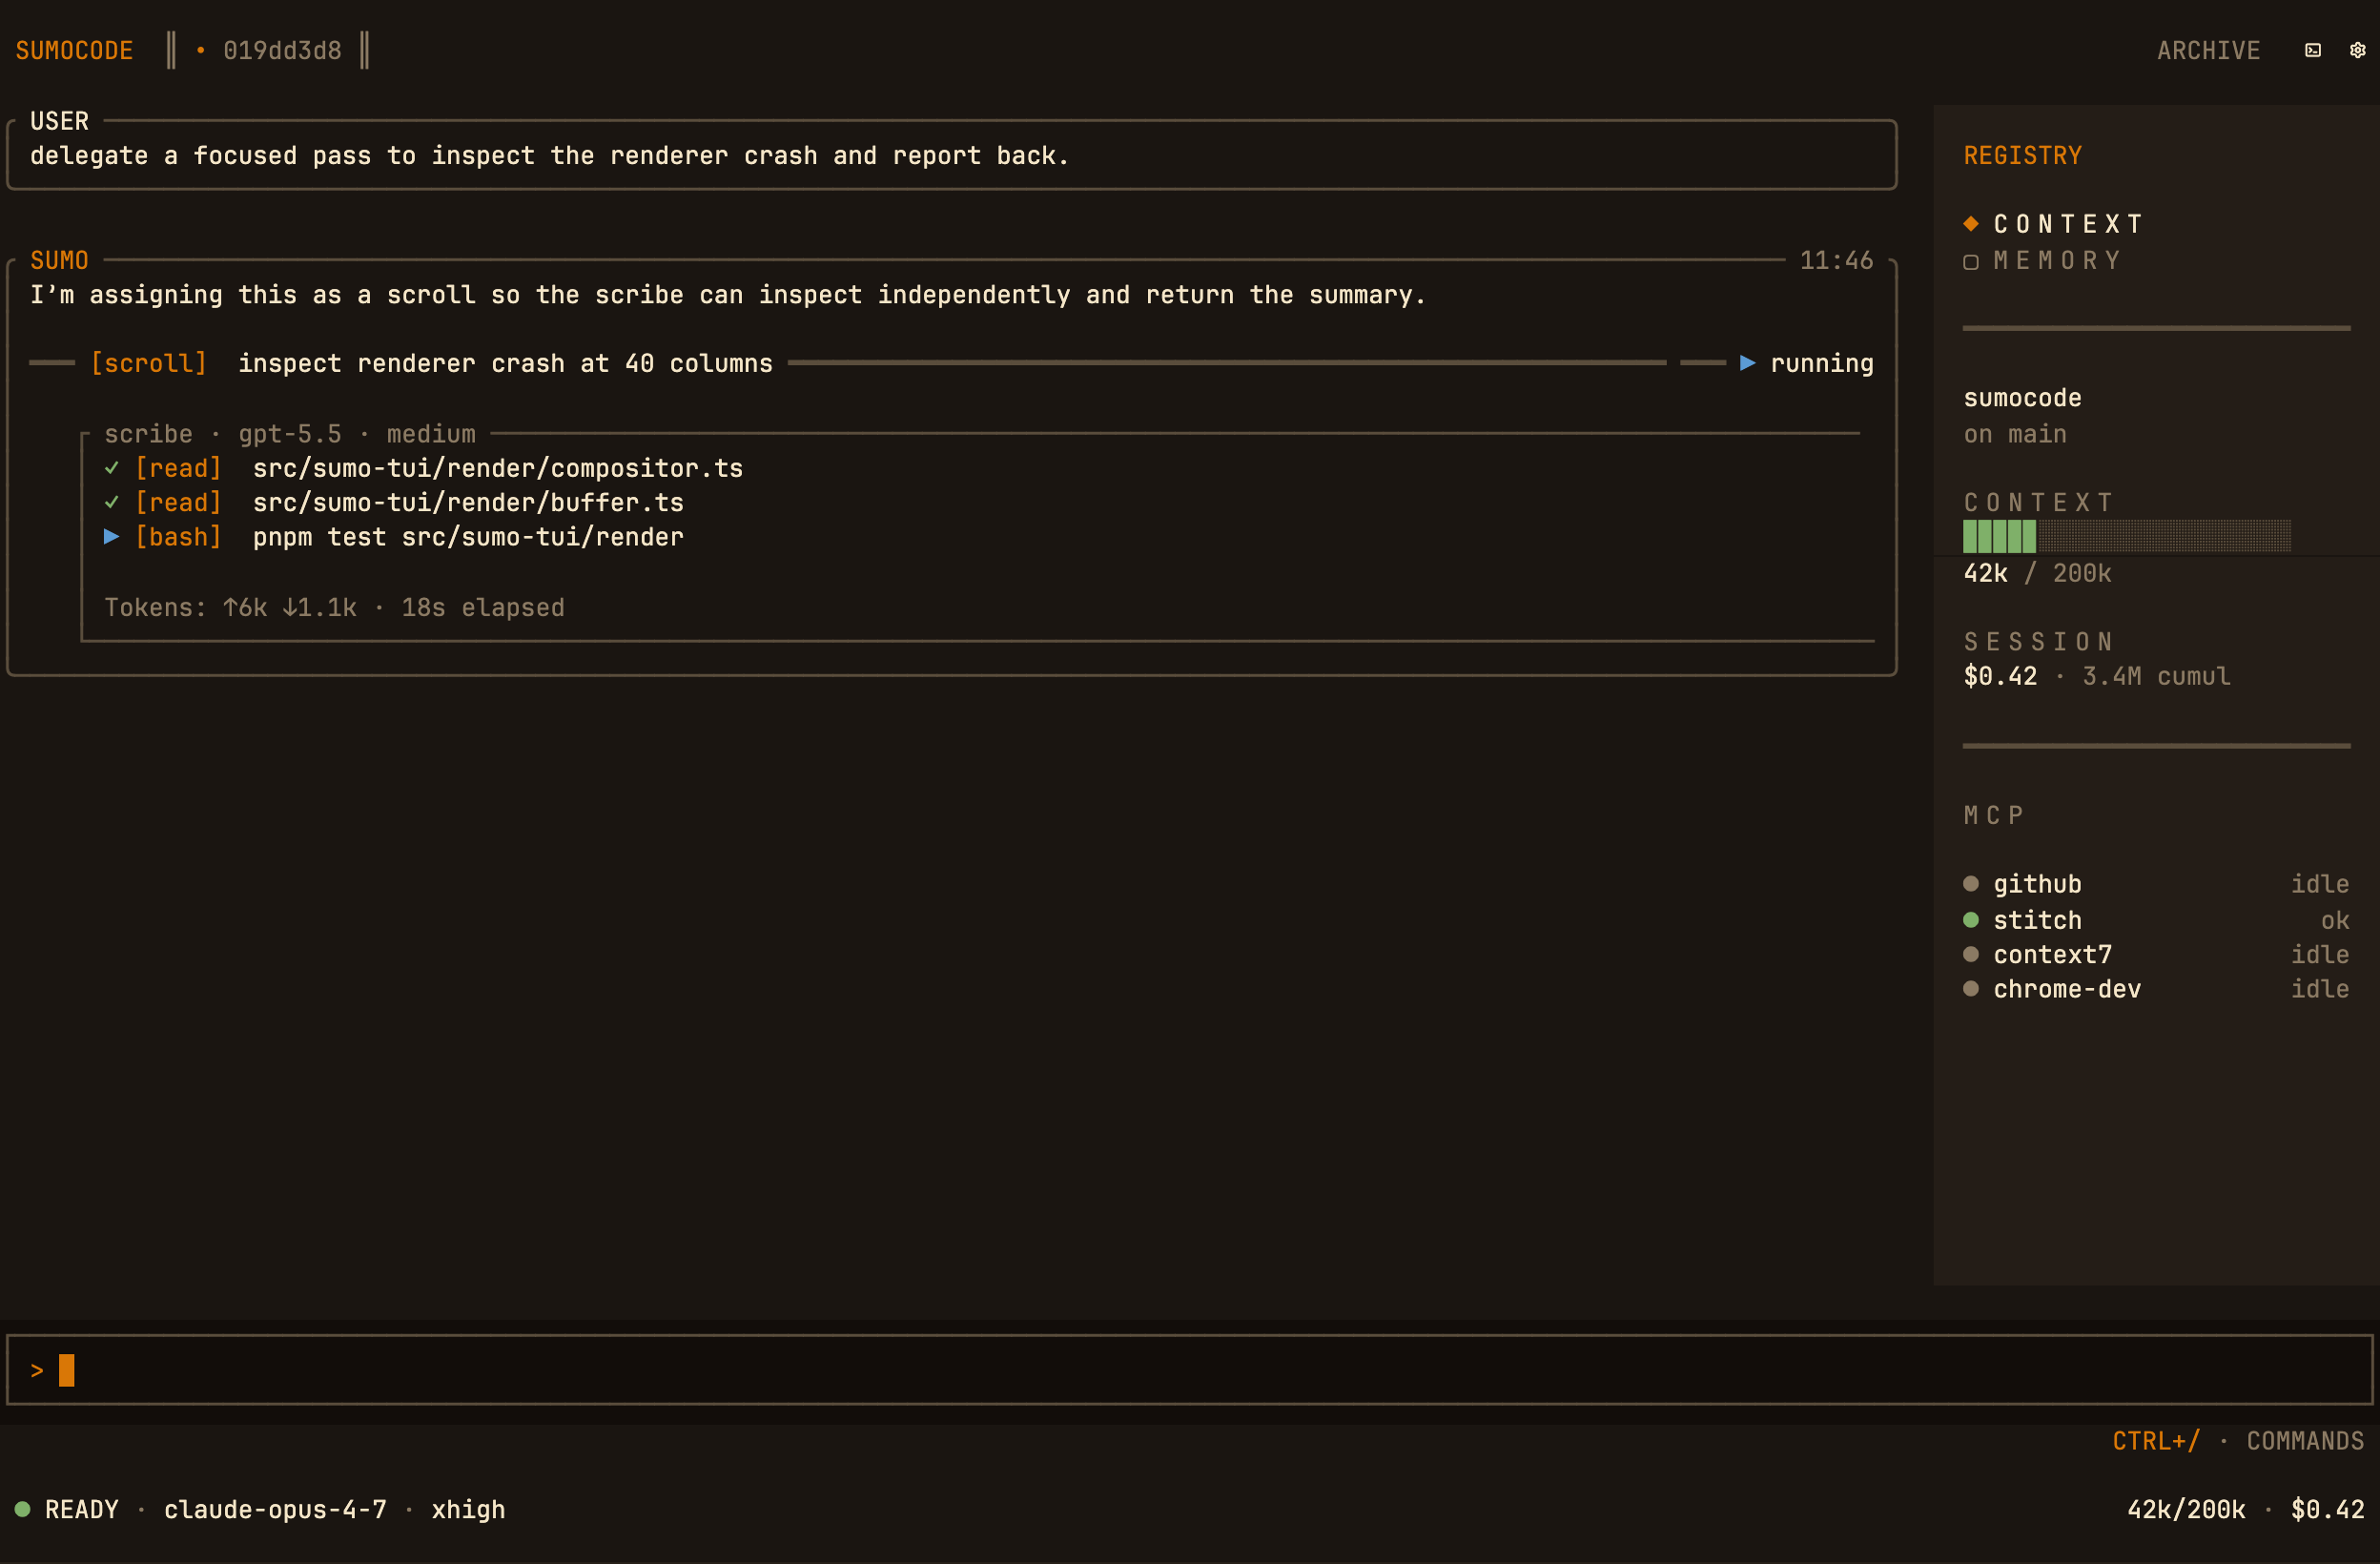
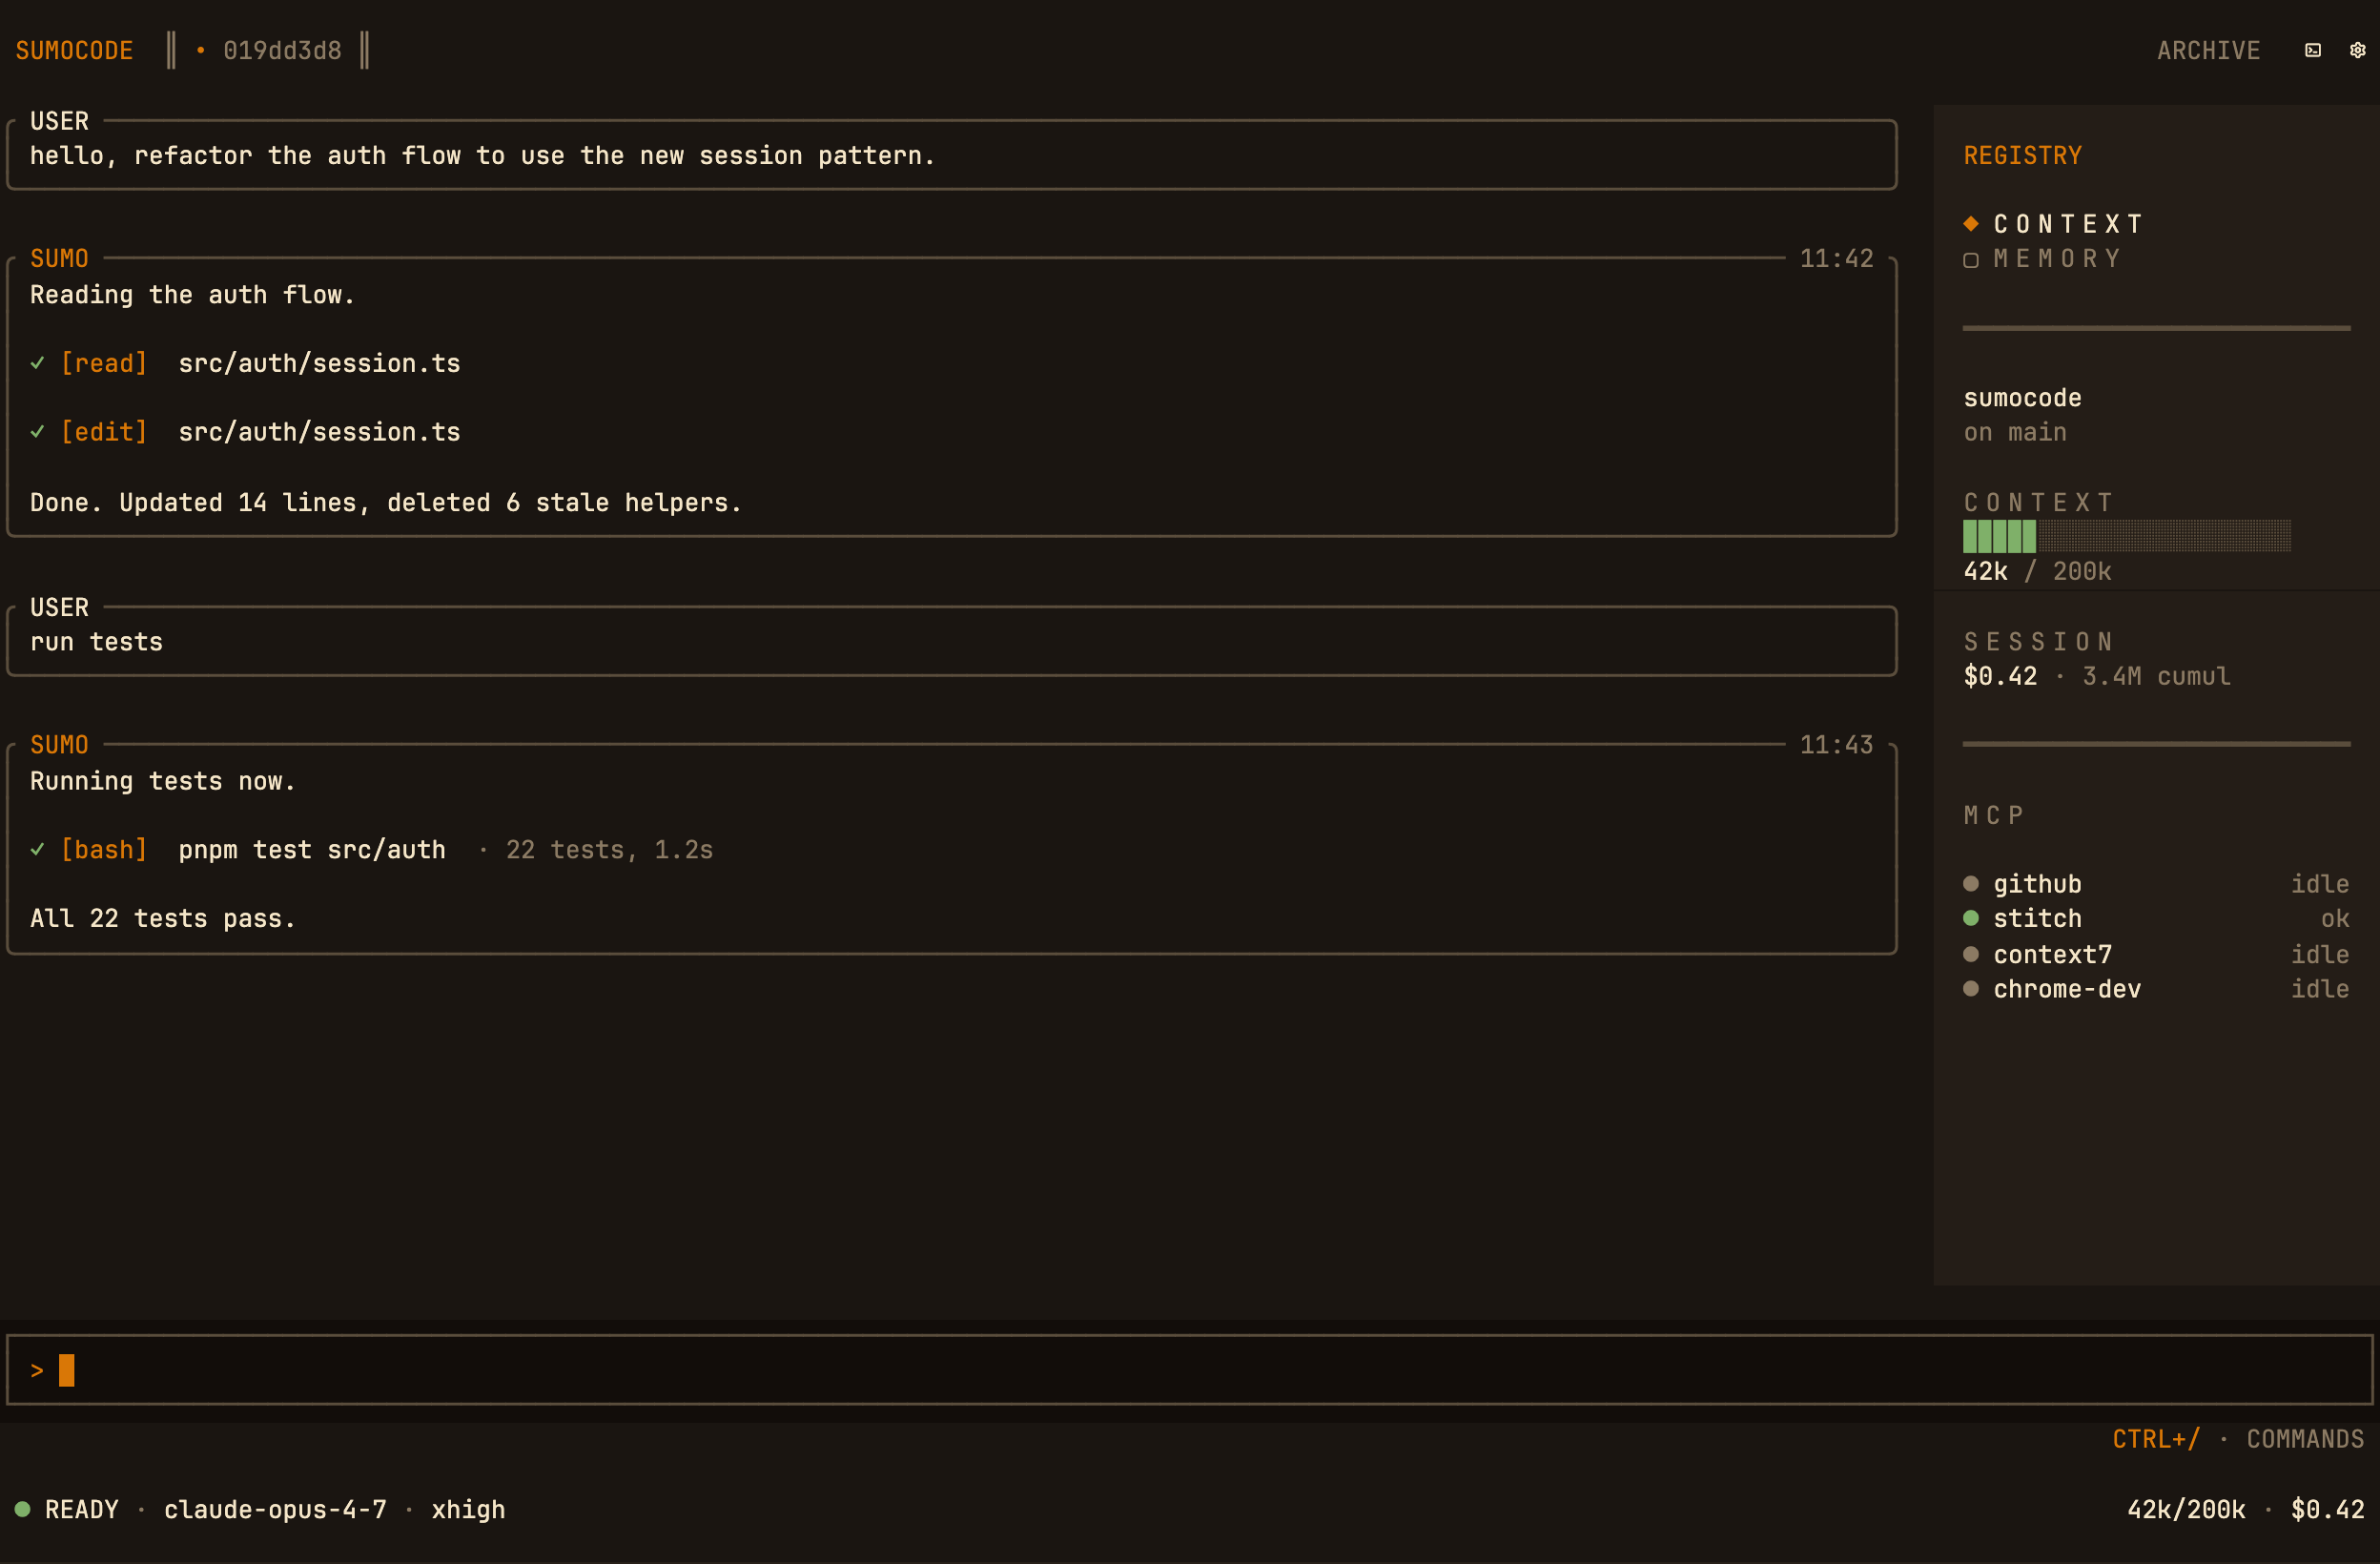
docs(readme): final variant B + splash hero + In action chat showcase (#248)
Per Dhruv's review: take Variant B (engineering-doc voice, sentence-case
headings, third-person, dense feature table) and tweak:

- Hero swapped from the Cathedral active scene to the splash
  (01-cathedral-splash.png) — the SUMO cat + wordmark frame is the
  stronger first-frame
- Theme tour stays at 3 themed active scenes — Cathedral now also shows
  the basic read/edit/bash flow (was scroll-scribe delegation), so all
  three theme-tour images are consistent execution screenshots
- New 'In action' section between Features and Architecture: full-width
  Cathedral active screenshot with a paragraph walking the reader
  through what they're seeing (user asks for a refactor; SUMO does
  [read], [edit], [bash] inline; sidebar tracks context window + cost +
  MCP roster; footer dot reads READY)
- Closes #245 + #247 review thread; supersedes the readme-preview-b
  variant

Marketing pack updated:
- docs/marketing/02-cathedral-active.png swapped to scene-active.png
  (basic read/edit/bash) instead of scene-active-scroll-scribe.png
  (delegation flow)
- docs/marketing/README.md updated to reflect the source mockup change

diff --git a/README.md b/README.md
@@ -2,125 +2,140 @@
 
 # SumoCode
 
-**a scriptorium for the terminal**
+A Pi extension that ships its own retained terminal renderer (SumoTUI), three theme bundles, and a persistent memory surface. Daily-driven by the maintainer for two months.
 
-a Pi extension i built so my terminal AI feels personal across machines.
-
-[![mit license](https://img.shields.io/badge/license-MIT-2D211A?style=flat-square)](./LICENSE)
-[![version](https://img.shields.io/badge/v0.3.0-B85A22?style=flat-square)](./CHANGELOG.md)
-[![pi 0.74](https://img.shields.io/badge/pi-0.74.0-4A6B3A?style=flat-square)](https://github.com/earendil-works/pi)
-[![tests](https://img.shields.io/badge/tests-821%20passing-4A6B3A?style=flat-square)](./test)
+[![MIT License](https://img.shields.io/badge/license-MIT-2D211A?style=flat-square)](./LICENSE)
+[![Version](https://img.shields.io/badge/v0.3.0-B85A22?style=flat-square)](./CHANGELOG.md)
+[![Pi 0.74](https://img.shields.io/badge/pi-0.74.0-4A6B3A?style=flat-square)](https://github.com/earendil-works/pi)
+[![Tests](https://img.shields.io/badge/tests-807%20passing-4A6B3A?style=flat-square)](./test)
 
 <br>
 
-<img src="./docs/marketing/02-cathedral-active.png" alt="SumoCode running in Cathedral theme — active scroll/scribe delegation with sidebar visible" width="900">
+<img src="./docs/marketing/01-cathedral-splash.png" alt="SumoCode splash — pixel-art SUMO cat, wordmark, and Divine Invocation input frame on the Cathedral palette" width="900">
 
 </div>
 
 ---
 
-## what you're looking at
+## Overview
 
-SumoCode is a Pi extension. it owns the experience layer — splash, top chrome, footer, sidebar, modals, themes, persistent memory across sessions. [Pi](https://github.com/earendil-works/pi) keeps the agent loop, the LLM, sessions, MCP, skills.
+SumoCode is a [Pi](https://github.com/earendil-works/pi) extension. Pi provides the agent loop, LLM abstraction, sessions, MCP, and skills. SumoCode owns the experience layer: splash, top chrome, footer, sidebar, modals, themes, in-app scrollback, and mouse routing.
 
-three themes ship. cathedral by default. amber CRT when i miss DOS. obsidian temple at night. cycle with `Ctrl+Shift+T`. choice persists across machines.
+The renderer is **SumoTUI** — a Node-native retained renderer in [`src/sumo-tui/`](./src/sumo-tui/) — built around a Yoga flex layout tree, a cell compositor with frame diff, a modal layer, and a headless test backend. SumoTUI replaces Pi's line-concatenation `Container` for surfaces that require flex layout, in-app scroll, modal overlays, mouse routing, and signal-clean cleanup.
 
-it's been my daily-drive shell for the last two months.
+Three themes ship: Cathedral (default), Amber CRT, and Obsidian Temple. Cycle with `Ctrl+Shift+T`; choice persists across machines.
 
-## theme tour
+## Theme tour
 
 <table>
 <tr>
 <td align="center" width="33%">
 <img src="./docs/marketing/02-cathedral-active.png" alt="Cathedral theme">
-<br><strong>cathedral</strong>
-<br><sub>warm walnut chassis, burnt-orange accent, fleur-de-lis bullets, rounded chrome. default.</sub>
+<br><strong>Cathedral</strong>
+<br><sub>Warm walnut chassis, burnt-orange accent, fleur-de-lis bullets, rounded chrome.</sub>
 </td>
 <td align="center" width="33%">
 <img src="./docs/marketing/04-amber-crt.png" alt="Amber CRT theme">
-<br><strong>amber CRT</strong>
-<br><sub>warm dark brown chassis, P3 amber phosphor, double-line ASCII chrome, P1 green / cyan / red phosphor states.</sub>
+<br><strong>Amber CRT</strong>
+<br><sub>Warm dark brown chassis, P3 amber phosphor, double-line ASCII chrome, P1 phosphor states.</sub>
 </td>
 <td align="center" width="33%">
 <img src="./docs/marketing/05-obsidian-temple.png" alt="Obsidian Temple theme">
-<br><strong>obsidian temple</strong>
-<br><sub>deep obsidian background, electrum gold + neon cyan + magenta, Egyptian section glyphs.</sub>
+<br><strong>Obsidian Temple</strong>
+<br><sub>Deep obsidian background, electrum gold accent, neon cyan and magenta, Egyptian section glyphs.</sub>
 </td>
 </tr>
 </table>
 
-## what makes it personal
+## Features
 
-<table>
-<tr>
-<td width="50%" valign="top">
+| Feature | Description |
+|---|---|
+| **Memory Scriptorium** | Persistent agent memory across six panels (identity, preferences, workflow, projects, system, general). Inline forget (`d`), search (`/`), retreat (`⎋`). Read-back on every new session. Open with `/sumo:memory`. |
+| **Five preattentive states** | `idle`, `thinking`, `tool`, `approval`, `learning`. Each maps to a distinct theme-defined colour, surfaced in the footer dot and working indicator. |
+| **Owned-shell mode** | Full altscreen ownership: retained renderer, in-app scroll, modal layer, mouse routing, OSC 52 cell-precise selection. Pi reduced to LLM, tools, sessions through adapters in [`src/sumo-tui/pi-compat/`](./src/sumo-tui/pi-compat/). |
+| **`/sumo:reload`** | Hot-reload via launcher loop and exit code 100. Strips `--resume`, replaces with `--continue`. Resumes the in-flight session. |
+| **Cathedral approval modal** | Pattern-gated approval for dangerous bash commands. Default patterns cover `rm -rf`, `sudo`, `git push --force`, mutating `gh` calls. Configurable via `ApprovalGateConfig`. Modal height capped at 12 visible command rows. |
+| **Sidebar** | Three sections at width ≥ 120: context (token meter, session cost), MCP (server roster), memory (persisted bullets). Hidden in portrait orientation per [`SUMO_TUI_PORTRAIT_SIDEBAR_POLICY.md`](./docs/SUMO_TUI_PORTRAIT_SIDEBAR_POLICY.md). |
+| **Theme system** | Three first-party themes plus a chrome contract: each theme defines its own glyph set (`frame`, `sectionGlyphs`, `bullet`, `ruleChar`, `tabActive` / `tabInactive`) and an 8-frame working indicator. |
+| **Diagnostics flight recorder** | `SUMO_TUI_DIAG_FILE=/path/file.jsonl` enables a 19-event-type structured trace covering runtime lifecycle, terminal state, upstream Pi events, owned-shell transitions, and module-load provenance. |
 
-### ❈  memory scriptorium
+## In action
 
-facts the agent learned about you, organised like a manuscript. six panels (identity, preferences, workflow, projects, system, general). `d` to forget a line, `/` to search, `⎋` to retreat. inline revise is a planned addition; for now use `/sumo:memory forget <id>` + `/sumo:memory add <text>`. the agent reads from the manuscript on every new session.
+<div align="center">
 
-<sub>open with `/sumo:memory`</sub>
+<img src="./docs/marketing/02-cathedral-active.png" alt="SumoCode mid-session — user asks SUMO to refactor an auth flow; SUMO reads, edits, then runs the test suite directly via [read], [edit], [bash] tool calls" width="900">
 
-</td>
-<td width="50%" valign="top">
+</div>
 
-### ●  five preattentive states
+A real working session, mid-flow. The user asks SUMO to refactor `src/auth/session.ts`. SUMO executes a `[read]` to understand the current pattern, an `[edit]` to apply the change, and a `[bash]` invocation to run the test suite — each tool call inline, framed in its parent SUMO message. The sidebar tracks the live context window (`42k / 200k`), session cost (`$0.42 · 3.4M cumul`), and MCP server roster on the right. Footer state dot reads `READY` (idle) on the active theme's idle phosphor. The same cell layout, glyph chrome, and state colours adapt to the active theme.
 
-idle / thinking / tool / approval / learning. each gets a distinct colour drawn from the active theme. you can read the state out of the corner of your eye while your hands are typing.
+## Architecture
 
-<sub>set in `src/themes/*.ts`, surfaced in the footer dot + working indicator</sub>
+### SumoTUI
 
-</td>
-</tr>
-<tr>
-<td width="50%" valign="top">
+Pi's built-in TUI is a vertical line-concatenation `Container`. It does not provide flex layout, in-app scroll, mouse routing, or modal overlays. Workarounds — manual padding math for splash centering, footers floating wherever the linear renderer left them, mouse-wheel translating to arrow keys, kitty keyboard escapes leaking on signal exit — accumulated until they stopped scaling.
 
-### ▣  owned-shell mode
+[**SumoTUI**](./src/sumo-tui/) replaces that path with a Node-native retained renderer that:
 
-every cell that paints is mine. retained renderer, in-app scroll, modal layer, mouse routing, OSC 52 selection. Pi is reduced to LLM/tools/sessions through clean adapters; the seam lives in one directory (`src/sumo-tui/pi-compat/`).
+- Owns the altscreen lifecycle, mouse SGR routing, cursor state, and signal cleanup.
+- Runs a Yoga flex layout tree (top chrome, chat row with sidebar, blank, input frame, hint, footer, bottom safe row).
+- Composites cells through a frame diff that only repaints changed regions.
+- Provides a modal layer that composites over the chat without losing focus.
+- Wraps Pi's `CustomEditor` as a `PiEditorLeaf` so autocomplete, IME, kill-ring, undo-stack, and history continue to work.
 
-<sub>see [`docs/SUMO_TUI_PI_PATCH_STRATEGY.md`](./docs/SUMO_TUI_PI_PATCH_STRATEGY.md)</sub>
+Reasoning is documented in [ADR 0001](./docs/adr/0001-sumo-tui-framework.md).
 
-</td>
-<td width="50%" valign="top">
+### The seam
 
-### ↻  /sumo:reload
+SumoTUI must initialise before Pi's `InteractiveMode` is constructed. Pi's public extension API does not expose that hook — it composes on top of the existing TUI rather than replacing it. SumoCode therefore carries a 36-line pnpm patch against `@earendil-works/pi-coding-agent`'s `dist/main.js` ([`patches/@[email redacted]`](./patches/)):
 
-hard-reload the shell while keeping your terminal context. exits with code 100, the launcher loop respawns with `--continue`. iterating on the renderer no longer means losing the session.
+```js
+const useSumoTui = isTruthyEnvFlag(process.env.SUMO_TUI) || parsed.unknownFlags.has("sumo-tui");
+const interactiveMode = useSumoTui
+  ? await loadSumoInteractiveMode(runtime, interactiveOptions)
+  : new InteractiveMode(runtime, interactiveOptions);
+```
 
-<sub>also strips `--resume` and replaces with `--continue`</sub>
+`loadSumoInteractiveMode` dynamically imports `@dhruvkelawala/sumocode/sumo-interactive-mode` (or `$SUMO_TUI_MODULE` in dev). Without `SUMO_TUI=1` the patch is a no-op; plain Pi loads. Maintenance contract: [`docs/SUMO_TUI_PI_PATCH_STRATEGY.md`](./docs/SUMO_TUI_PI_PATCH_STRATEGY.md). The patch is removed when Pi exposes a public `interactiveMode` injection API.
 
-</td>
-</tr>
-<tr>
-<td width="50%" valign="top">
+### Kernel contracts
 
-### ✾  cathedral approval modal
+Six contracts came out of the SumoTUI consolidation epic. Each is small, owns one responsibility, and is enforced by tests.
 
-cathedral-styled gate for dangerous bash commands. patterns are configurable per session — `rm -rf`, `sudo`, `git push --force`, mutating gh CLI calls, plus your own. long commands get capped at 12 visible rows so the modal never overflows the terminal.
+| Contract | Responsibility | Code | Doc |
+|---|---|---|---|
+| **TerminalSessionOwner** | Altscreen lifecycle, mouse and cursor reporting, signal cleanup, stdin and raw-mode handling. Split: terminal output ownership in `terminal-controller.ts`; stdin and raw-mode in `lifecycle.ts`. | [`src/sumo-tui/runtime/terminal-controller.ts`](./src/sumo-tui/runtime/terminal-controller.ts) + [`lifecycle.ts`](./src/sumo-tui/runtime/lifecycle.ts) | (in ADR + audit) |
+| **InteractionRegistry** | Single registration point for keybindings, shortcuts, slash commands, with collision detection. Paired with a focus-aware key router. | [`src/interaction-registry.ts`](./src/interaction-registry.ts) + [`src/sumo-tui/input/key-router.ts`](./src/sumo-tui/input/key-router.ts) | (in ADR) |
+| **Cancellable WorkerRuntime** | Background jobs that respect `Ctrl+C` and do not leak across session switches. | [`src/sumo-tui/runtime/worker-runtime.ts`](./src/sumo-tui/runtime/worker-runtime.ts) | (in ADR) |
+| **Typed render primitives** | `Style`, `Span`, `Line` types for cell-correct rendering. Eliminates stale-style and cell-width bugs. | [`src/sumo-tui/render/primitives.ts`](./src/sumo-tui/render/primitives.ts) | [`SUMO_TUI_RENDER_PRIMITIVES.md`](./docs/SUMO_TUI_RENDER_PRIMITIVES.md) |
+| **Headless TestBackend** | Test harness for retained-renderer behaviour without parsing real PTY bytes. | [`src/sumo-tui/testing/test-backend.ts`](./src/sumo-tui/testing/test-backend.ts) | [`SUMO_TUI_TEST_BACKEND.md`](./docs/SUMO_TUI_TEST_BACKEND.md) |
+| **Structured TranscriptViewModel** | Typed `ChatBlock` taxonomy (markdown, code, tool, skill, question, delegation) replacing flattened message strings. | [`src/sumo-tui/transcript/view-model.ts`](./src/sumo-tui/transcript/view-model.ts) | [`SUMO_TUI_TRANSCRIPT_MODEL.md`](./docs/SUMO_TUI_TRANSCRIPT_MODEL.md) |
 
-<sub>configurable via `ApprovalGateConfig`</sub>
+The **scriptorium modal chrome** ([`docs/cathedral/SCRIPTORIUM_CHROME.md`](./docs/cathedral/SCRIPTORIUM_CHROME.md)) is the shared lifted-bg overlay used by Divine Query, Approval, and Memory Scriptorium. It is the reason the three modals look like the same thing.
 
-</td>
-<td width="50%" valign="top">
+### Visual parity contract
 
-### ▦  sidebar with intent
+Three rendering paths agree, cell for cell, against the same Bible mockups. [`docs/visual/parity/CONTRACT.md`](./docs/visual/parity/CONTRACT.md) defines the three lanes:
 
-three sections: context (token meter, session cost), MCP (server roster and current state), memory (persisted bullets the agent keeps). 30 columns wide; appears at terminal width 120+. portrait policy hides it deliberately. live MCP health surfacing is on the roadmap once Pi exposes it; today the section reflects the configured server list.
+| Lane | Input | Purpose |
+|---|---|---|
+| `component` | Deterministic fixture → ANSI | Isolated TUI component captures. |
+| `fixture` | `TranscriptViewModel` fixture → full-scene ANSI | Deterministic completed / tool / overlay states without live Pi. |
+| `runtime` | `bin/sumocode.sh` via `node-pty` | Real end-to-end runtime captures. |
 
-<sub>appears automatically at 120+ columns</sub>
+All three converge through `@xterm/headless` into a per-cell `{ char, fg, bg, bold, dim }` grid. Verification is **styled-cell diff** (text-level, deterministic) plus a **geometry audit** that classifies each row and bounds it against the spec. PNG diffs exist for human review packs but they are not the gate.
 
-</td>
-</tr>
-</table>
+```bash
+pnpm visual:ci
+cat docs/visual/out/parity/<scenario>/raw/styled-cell-diff.txt
+```
 
-## reading the source
+### Layout policy
 
-this is a personal Pi extension. it runs in my fork of Pi with a small private patch (`patches/@[email redacted]`, 36 lines) that lets SumoCode own the root TUI. the package isn't designed to drop into your machine clean — but the source is yours to read, fork, and lift from. the patch is small and well-documented.
+Sidebar docks at terminal width ≥ 120. Below 120, the sidebar disappears and project / branch context moves into the hint row. Portrait — the canonical 60 × 100 viewport — has its own policy: no sidebar regardless of width. See [`SUMO_TUI_PORTRAIT_SIDEBAR_POLICY.md`](./docs/SUMO_TUI_PORTRAIT_SIDEBAR_POLICY.md).
 
-if you want to actually run it, [`DEV_LOOP.md`](./DEV_LOOP.md) walks the dev loop and [`SETUP.md`](./SETUP.md) is what i run on a new machine. you'll need the public companion config too: [`dhruvkelawala/sumocode-config`](https://github.com/dhruvkelawala/sumocode-config) is private and personal, so you'd be writing your own.
-
-## how it's built
+### The bigger picture
 
 ```
 ┌──────────────────────────────────────────────────────────┐
@@ -135,12 +150,16 @@ if you want to actually run it, [`DEV_LOOP.md`](./DEV_LOOP.md) walks the dev loo
                           ▼
 ┌──────────────────────────────────────────────────────────┐
 │  SumoCode  ·  this repo                                  │
-│   · retained terminal renderer (yoga flex layout)        │
-│   · cathedral / amber CRT / obsidian themes              │
-│   · memory scriptorium                                   │
-│   · approval modal · divine query · skill pills          │
-│   · cell-precise selection + OSC 52 auto-copy            │
-│   · 5 preattentive status states + working indicator     │
+│   ┌─ src/sumo-tui/  retained renderer kernel ─────────┐  │
+│   │  yoga flex layout · cell compositor · frame diff │  │
+│   │  modal layer · mouse routing · OSC 52 selection   │  │
+│   └─ headless TestBackend · typed render primitives ──┘  │
+│   ┌─ src/themes/    Cathedral / Amber CRT / Obsidian ─┐  │
+│   │  palette + chrome glyphs + working indicator      │  │
+│   └─ Ctrl+Shift+T to cycle, persisted via Pi ─────────┘  │
+│   ┌─ src/cathedral/, src/memory-editor.ts, etc. ──────┐  │
+│   │  Cathedral surfaces · Memory Scriptorium ·        │  │
+│   └─ approval modal · Divine Query · skill pills ─────┘  │
 └──────────────────────────────────────────────────────────┘
                           ▲
                           │ symlink into ~/.pi/agent/
@@ -151,21 +170,41 @@ if you want to actually run it, [`DEV_LOOP.md`](./DEV_LOOP.md) walks the dev loo
 └──────────────────────────────────────────────────────────┘
 ```
 
-the design history lives in [`docs/prd.md`](./docs/prd.md) (PRD), [`docs/adr/0001-sumo-tui-framework.md`](./docs/adr/0001-sumo-tui-framework.md) (the retained-renderer ADR), and [`docs/ui/CATHEDRAL_UX_SPEC_V2.md`](./docs/ui/CATHEDRAL_UX_SPEC_V2.md) (the visual canon).
+Design trail: [PRD](./docs/prd.md) · [ADR 0001](./docs/adr/0001-sumo-tui-framework.md) · [Pi patch strategy](./docs/SUMO_TUI_PI_PATCH_STRATEGY.md) · [render primitives contract](./docs/SUMO_TUI_RENDER_PRIMITIVES.md) · [transcript view-model](./docs/SUMO_TUI_TRANSCRIPT_MODEL.md) · [test backend](./docs/SUMO_TUI_TEST_BACKEND.md) · [scriptorium chrome](./docs/cathedral/SCRIPTORIUM_CHROME.md) · [visual parity contract](./docs/visual/parity/CONTRACT.md) · [V2 UX spec](./docs/ui/CATHEDRAL_UX_SPEC_V2.md) · [Pi tool architecture](./docs/PI_TOOL_ARCHITECTURE.md) · [portrait sidebar policy](./docs/SUMO_TUI_PORTRAIT_SIDEBAR_POLICY.md).
 
-## credits
+## Development
 
-* [Mario Zechner](https://github.com/badlogicgames) and the [@earendil-works](https://github.com/earendil-works) team for [Pi](https://github.com/earendil-works/pi). every cell SumoCode paints sits on top of Pi's agent loop, model registry, and extension API. the patch is 36 lines because Pi was already designed to be extended.
-* [OpenCode](https://opencode.ai/) for the visual language i love and openly mirror.
-* the AI agents that helped me write this — anthropic claude opus, openai codex, deepseek v4, kimi. several thousand commits' worth of pair programming.
-* built in london, on a mac mini in portrait orientation, in cmux.
+This is a personal Pi extension, not a clean drop-in. The patch is small and well-documented; the renderer is open for reading, forking, and lifting.
 
-## license
+| Document | Purpose |
+|---|---|
+| [`DEV_LOOP.md`](./DEV_LOOP.md) | Edit / test / release workflow. |
+| [`SETUP.md`](./SETUP.md) | What the maintainer runs on a new machine. |
+| [`CHANGELOG.md`](./CHANGELOG.md) | Keep-a-Changelog format, retroactive for v0.1.0 → v0.2.0 → v0.3.0. |
+| [`AGENTS.md`](./AGENTS.md) | Engineering conventions and AI-agent contract for this repo. |
+
+The companion config lives at [`dhruvkelawala/sumocode-config`](https://github.com/dhruvkelawala/sumocode-config) and is private. Bring your own.
+
+### Build and test
+
+```bash
+pnpm install                       # installs Pi peer deps + applies the patch
+pnpm exec tsc --noEmit             # typecheck (no emit; Pi loads TS via jiti)
+pnpm test                          # 807 unit tests
+pnpm test:integration              # 32 integration tests via node-pty
+pnpm visual:ci                     # V2 parity gate
+pnpm dead-code                     # knip non-blocking dead-code scan
+pnpm perf:startup                  # startup perf snapshot → docs/perf/startup.md
+```
+
+## Acknowledgements
+
+[Mario Zechner](https://github.com/badlogicgames) and the [@earendil-works](https://github.com/earendil-works) team built [Pi](https://github.com/earendil-works/pi). Every cell SumoCode paints sits on top of Pi's agent loop, model registry, and extension API. The patch is 36 lines because Pi was already designed to be extended.
+
+[OpenCode](https://opencode.ai/) provides the visual language SumoCode openly mirrors.
+
+The renderer was built with significant assistance from frontier coding agents: Anthropic Claude Opus, OpenAI Codex, DeepSeek v4, and Kimi.
+
+## License
 
 MIT — see [LICENSE](./LICENSE).
-
-<br>
-
-<div align="center">
-<sub>made by <a href="https://github.com/dhruvkelawala">@dhruvkelawala</a> · personal project, take whatever's useful</sub>
-</div>

diff --git a/docs/marketing/README.md b/docs/marketing/README.md
@@ -9,7 +9,7 @@ a future release, see "Capturing live shots" below.
 | File | Theme | Surface | Source mockup |
 |---|---|---|---|
 | `01-cathedral-splash.png` | Cathedral | Splash + DIVINE INVOCATION | `docs/ui/bible/03-splash.html` |
-| `02-cathedral-active.png` | Cathedral | Active scroll/scribe delegation, sidebar visible | `docs/ui/bible/scene-active-scroll-scribe.html` |
+| `02-cathedral-active.png` | Cathedral | Active read/edit/bash flow, sidebar visible | `docs/ui/bible/scene-active.html` |
 | `03-memory-scriptorium.png` | Cathedral | Memory Scriptorium overlay over a live chat | `docs/ui/bible/scene-memory-scriptorium-overlay.html` |
 | `04-amber-crt.png` | Amber CRT | Active landscape with sidebar | `docs/ui/bible/scene-active-amber-crt.html` |
 | `05-obsidian-temple.png` | Obsidian Temple | Active landscape with sidebar | `docs/ui/bible/scene-active-obsidian.html` |
@@ -33,7 +33,7 @@ a new tokens CSS file plus a `scene-active-<theme>.html` and re-running
 pnpm render:bible           # regenerates docs/ui/bible/renders/*.png
 # Then refresh the marketing copies:
 cp docs/ui/bible/renders/03-splash.png                          docs/marketing/01-cathedral-splash.png
-cp docs/ui/bible/renders/scene-active-scroll-scribe.png         docs/marketing/02-cathedral-active.png
+cp docs/ui/bible/renders/scene-active.png                       docs/marketing/02-cathedral-active.png
 cp docs/ui/bible/renders/scene-memory-scriptorium-overlay.png   docs/marketing/03-memory-scriptorium.png
 cp docs/ui/bible/renders/scene-active-amber-crt.png             docs/marketing/04-amber-crt.png
 cp docs/ui/bible/renders/scene-active-obsidian.png              docs/marketing/05-obsidian-temple.png
@@ -66,9 +66,11 @@ ask for nothing." These five do the heavy lifting:
 
 1. **Splash** — establishes the visual language in one frame: SUMO cat,
    wordmark, Cathedral palette, the DIVINE INVOCATION input frame.
-2. **Active scroll/scribe** — proves the renderer can hold a real working
-   session: nested tool blocks, sidebar with live registry, footer cost
-   metering, structured chat frames.
+2. **Active read/edit/bash** — proves the renderer can hold a real working
+   session: framed user/SUMO chat blocks, inline tool calls (`[read]`,
+   `[edit]`, `[bash]`), sidebar with context + cost meter, footer with
+   the active state dot. The basic execution flow without delegation
+   wrapping.
 3. **Memory Scriptorium** — the most distinctive surface. Sells the
    "persistent memory across sessions" line in the announce thread.
 4. **Amber CRT** — proves the theme system isn't just a colour swap.